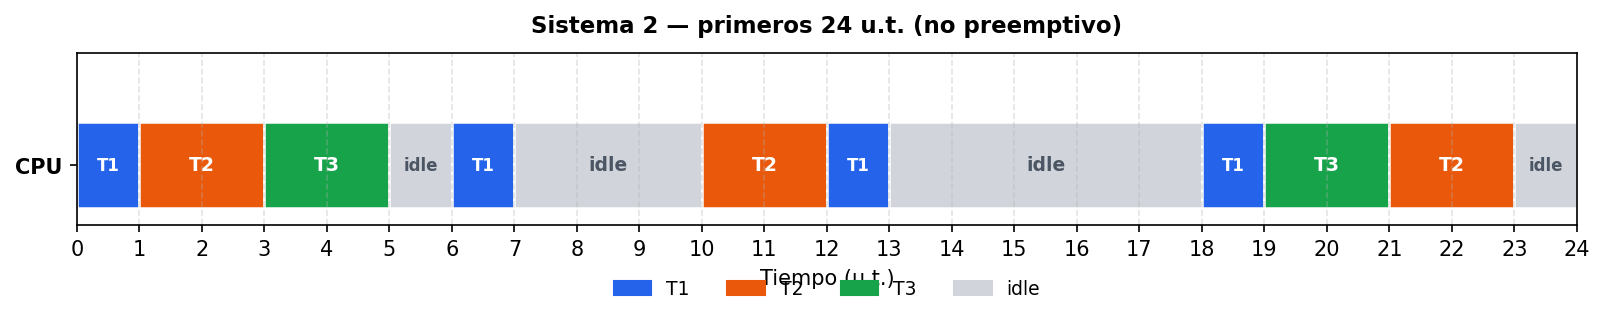
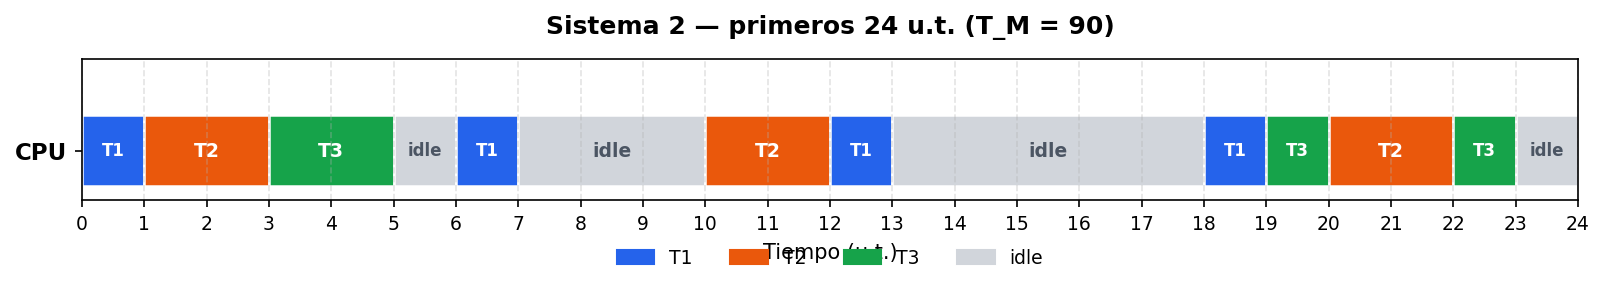
Script para generar los gantt

diff --git a/figuras/generar_gantt.py b/figuras/generar_gantt.py
@@ -1,0 +1,134 @@
+#!/usr/bin/env python3
+"""Genera diagramas Gantt (1 fila CPU) para los sistemas planificables."""
+
+from pathlib import Path
+
+import matplotlib
+import matplotlib.pyplot as plt
+import matplotlib.patches as mpatches
+
+matplotlib.use("Agg")
+
+OUT = Path(__file__).resolve().parent
+
+COLORS = {
+    "T1": "#2563eb",
+    "T2": "#ea580c",
+    "T3": "#16a34a",
+    "T4": "#9333ea",
+    "idle": "#d1d5db",
+}
+
+# segmentos: (desde, hasta, tarea)
+SYSTEMS = [
+    {
+        "id": 2,
+        "title": "Sistema 2 — primeros 24 u.t. (T_M = 90)",
+        "tmax": 24,
+        "segments": [
+            (0, 1, "T1"),
+            (1, 3, "T2"),
+            (3, 5, "T3"),
+            (5, 6, "idle"),
+            (6, 7, "T1"),
+            (7, 10, "idle"),
+            (10, 12, "T2"),
+            (12, 13, "T1"),
+            (13, 18, "idle"),
+            (18, 19, "T1"),
+            (19, 20, "T3"),
+            (20, 22, "T2"),
+            (22, 23, "T3"),
+            (23, 24, "idle"),
+        ],
+    },
+    {
+        "id": 3,
+        "title": "Sistema 3 — primeras 33 u.t. (T_M = 1320)",
+        "tmax": 33,
+        "segments": [
+            (0, 1, "T1"),
+            (1, 4, "T2"),
+            (4, 8, "T3"),
+            (8, 9, "T1"),
+            (9, 15, "T4"),
+            (15, 16, "T2"),
+            (16, 17, "T1"),
+            (17, 19, "T2"),
+            (19, 20, "idle"),
+            (20, 24, "T3"),
+            (24, 25, "T1"),
+            (25, 31, "T4"),
+            (31, 32, "T2"),
+            (32, 33, "T1"),
+        ],
+    },
+]
+
+
+def draw_gantt(system: dict) -> Path:
+    tmax = system["tmax"]
+    fig_w = max(10, tmax * 0.45)
+    fig, ax = plt.subplots(figsize=(fig_w, 2.2), dpi=150)
+    y, h = 0.35, 0.5
+
+    for start, end, task in system["segments"]:
+        dur = end - start
+        ax.barh(
+            y,
+            dur,
+            left=start,
+            height=h,
+            color=COLORS[task],
+            edgecolor="white",
+            linewidth=1.2,
+            align="center",
+        )
+        if dur >= 0.8:
+            ax.text(
+                start + dur / 2,
+                y,
+                task,
+                ha="center",
+                va="center",
+                fontsize=9 if dur >= 1.5 else 8,
+                fontweight="bold",
+                color="white" if task != "idle" else "#4b5563",
+            )
+
+    ax.set_xticks(range(int(tmax) + 1))
+    ax.set_xticklabels(range(int(tmax) + 1), fontsize=9)
+    ax.set_xlim(0, tmax)
+    ax.set_ylim(0, 1)
+    ax.set_yticks([y])
+    ax.set_yticklabels(["CPU"], fontsize=11, fontweight="bold")
+    ax.grid(axis="x", linestyle="--", alpha=0.35)
+    ax.set_xlabel("Tiempo (u.t.)", fontsize=10)
+    ax.set_title(system["title"], fontsize=12, fontweight="bold", pad=12)
+
+    used = sorted({task for _, _, task in system["segments"]})
+    patches = [mpatches.Patch(color=COLORS[task], label=task) for task in used]
+    ax.legend(
+        handles=patches,
+        loc="upper center",
+        bbox_to_anchor=(0.5, -0.22),
+        ncol=len(patches),
+        frameon=False,
+        fontsize=9,
+    )
+
+    fig.tight_layout()
+    out = OUT / f"gantt-sistema-{system['id']}.png"
+    fig.savefig(out, bbox_inches="tight", facecolor="white")
+    plt.close(fig)
+    return out
+
+
+def main() -> None:
+    for system in SYSTEMS:
+        path = draw_gantt(system)
+        print("saved", path)
+
+
+if __name__ == "__main__":
+    main()
